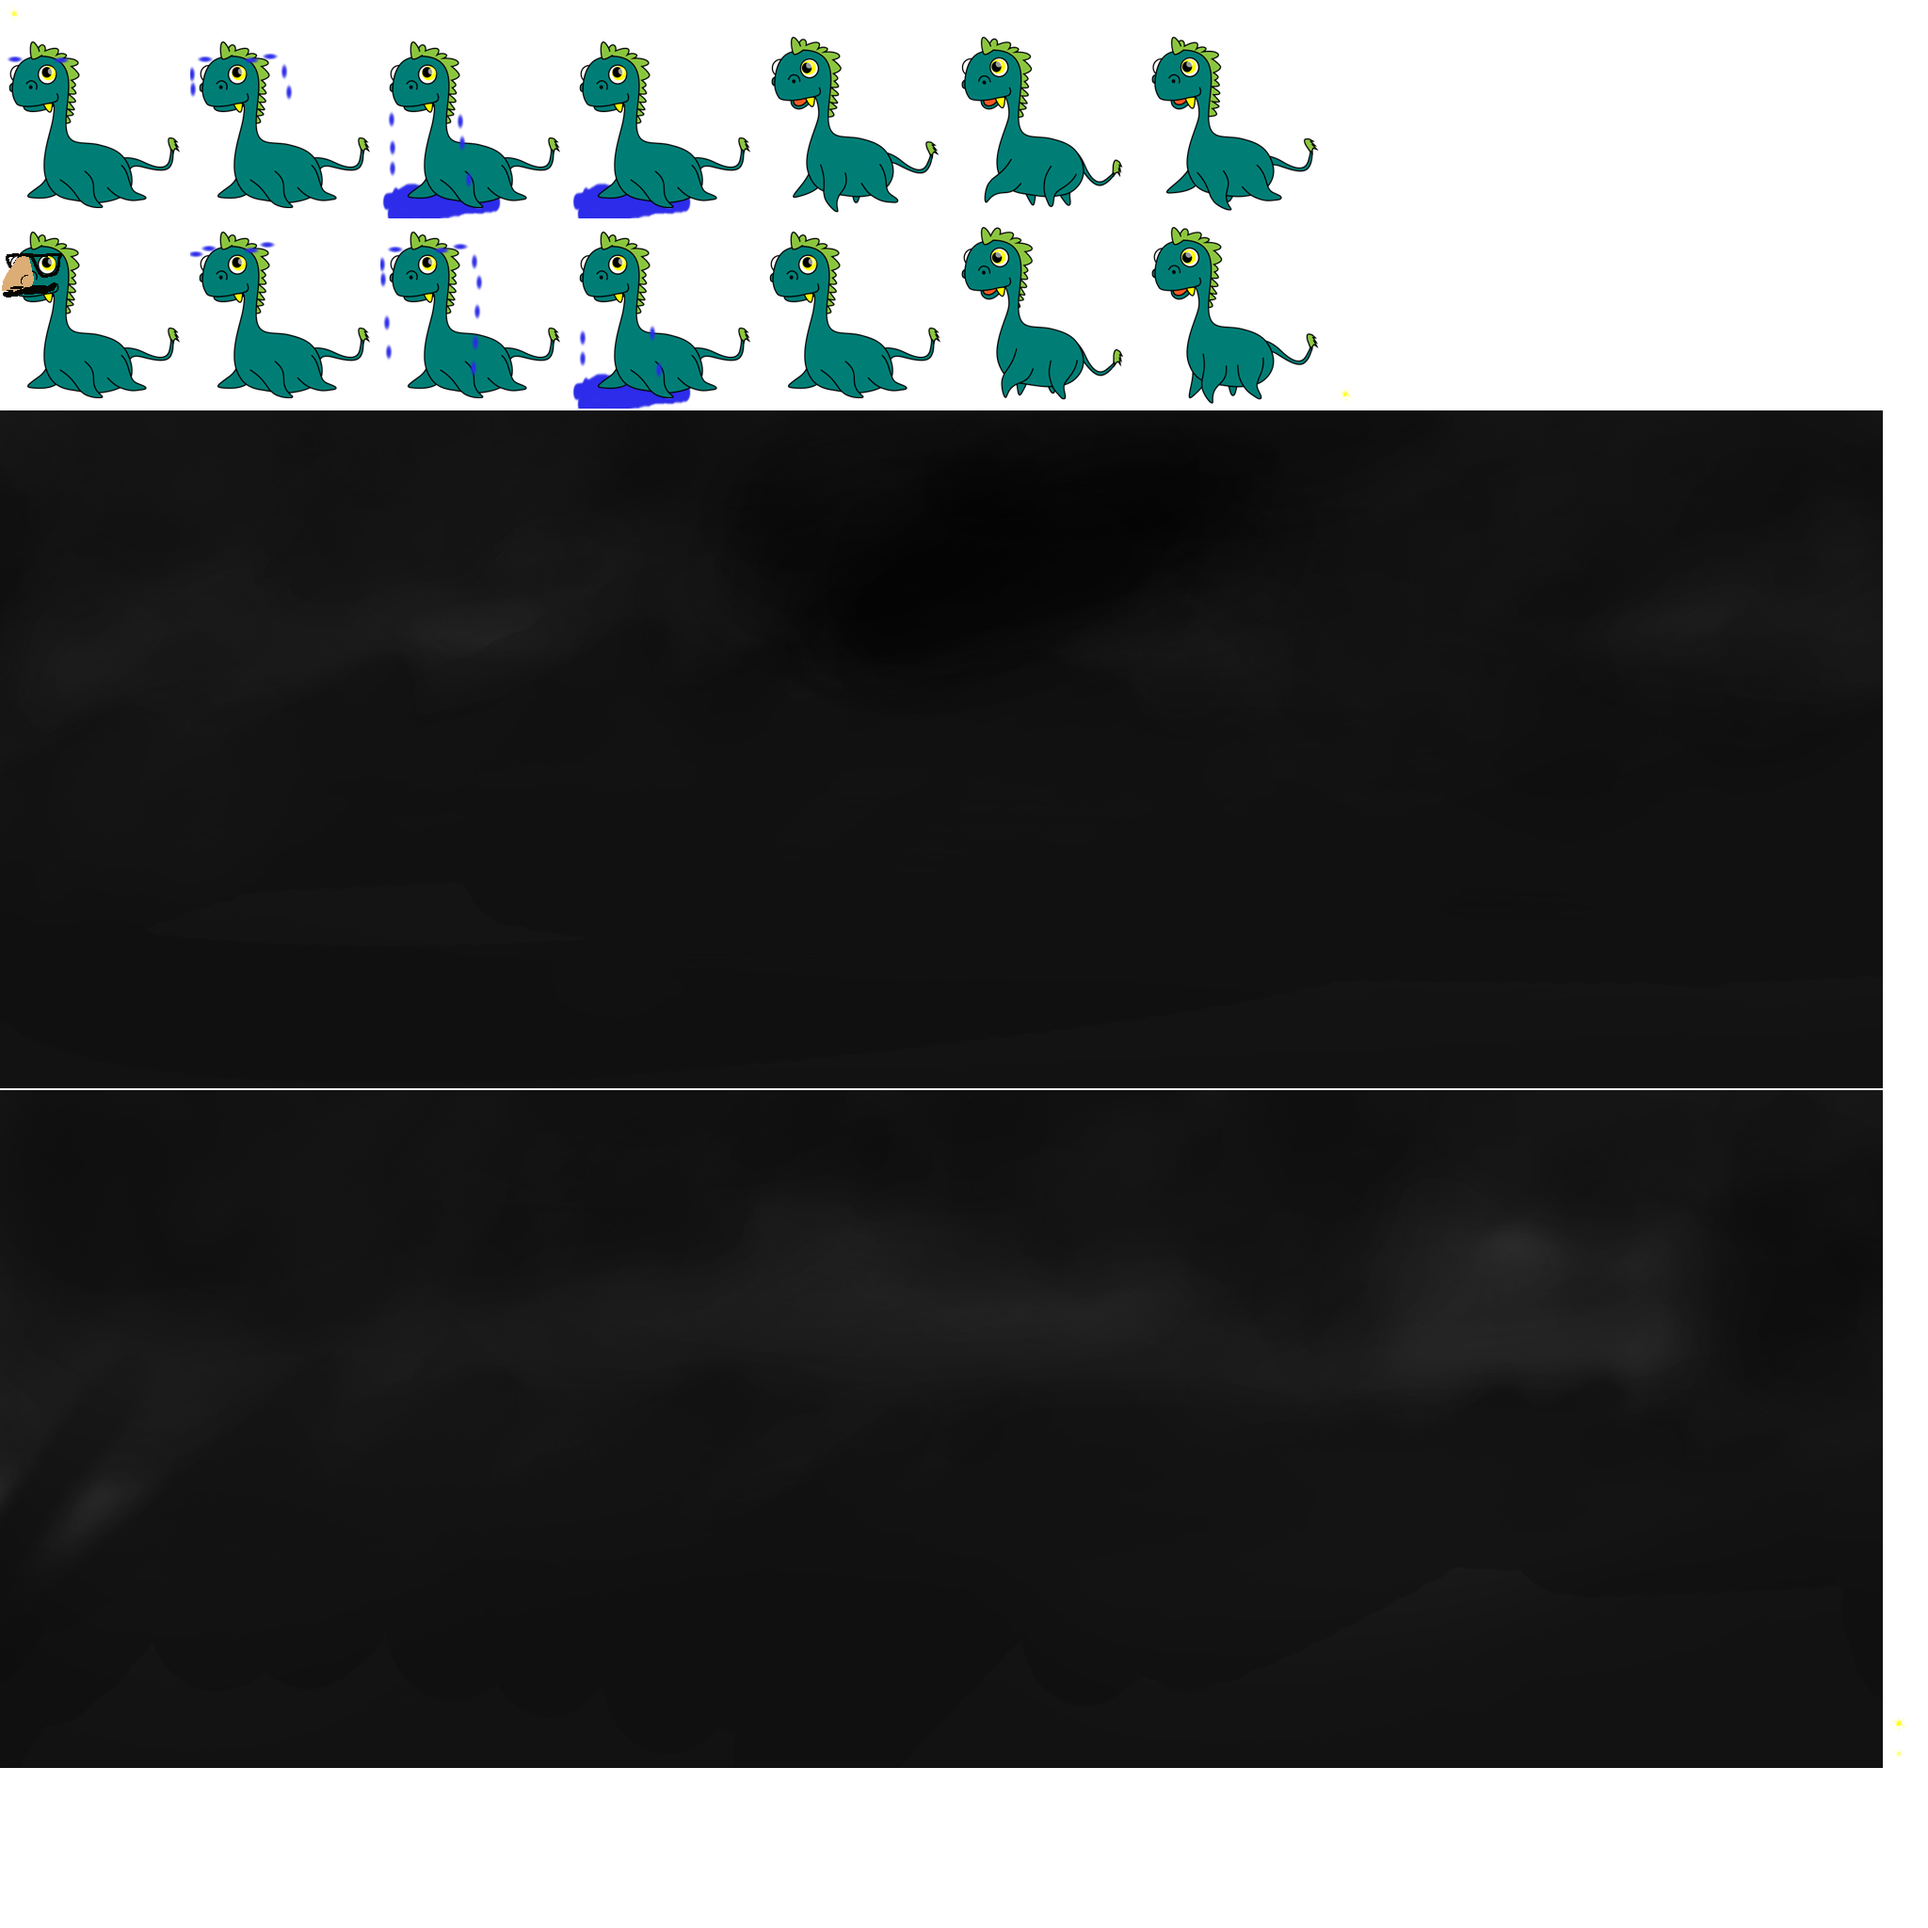
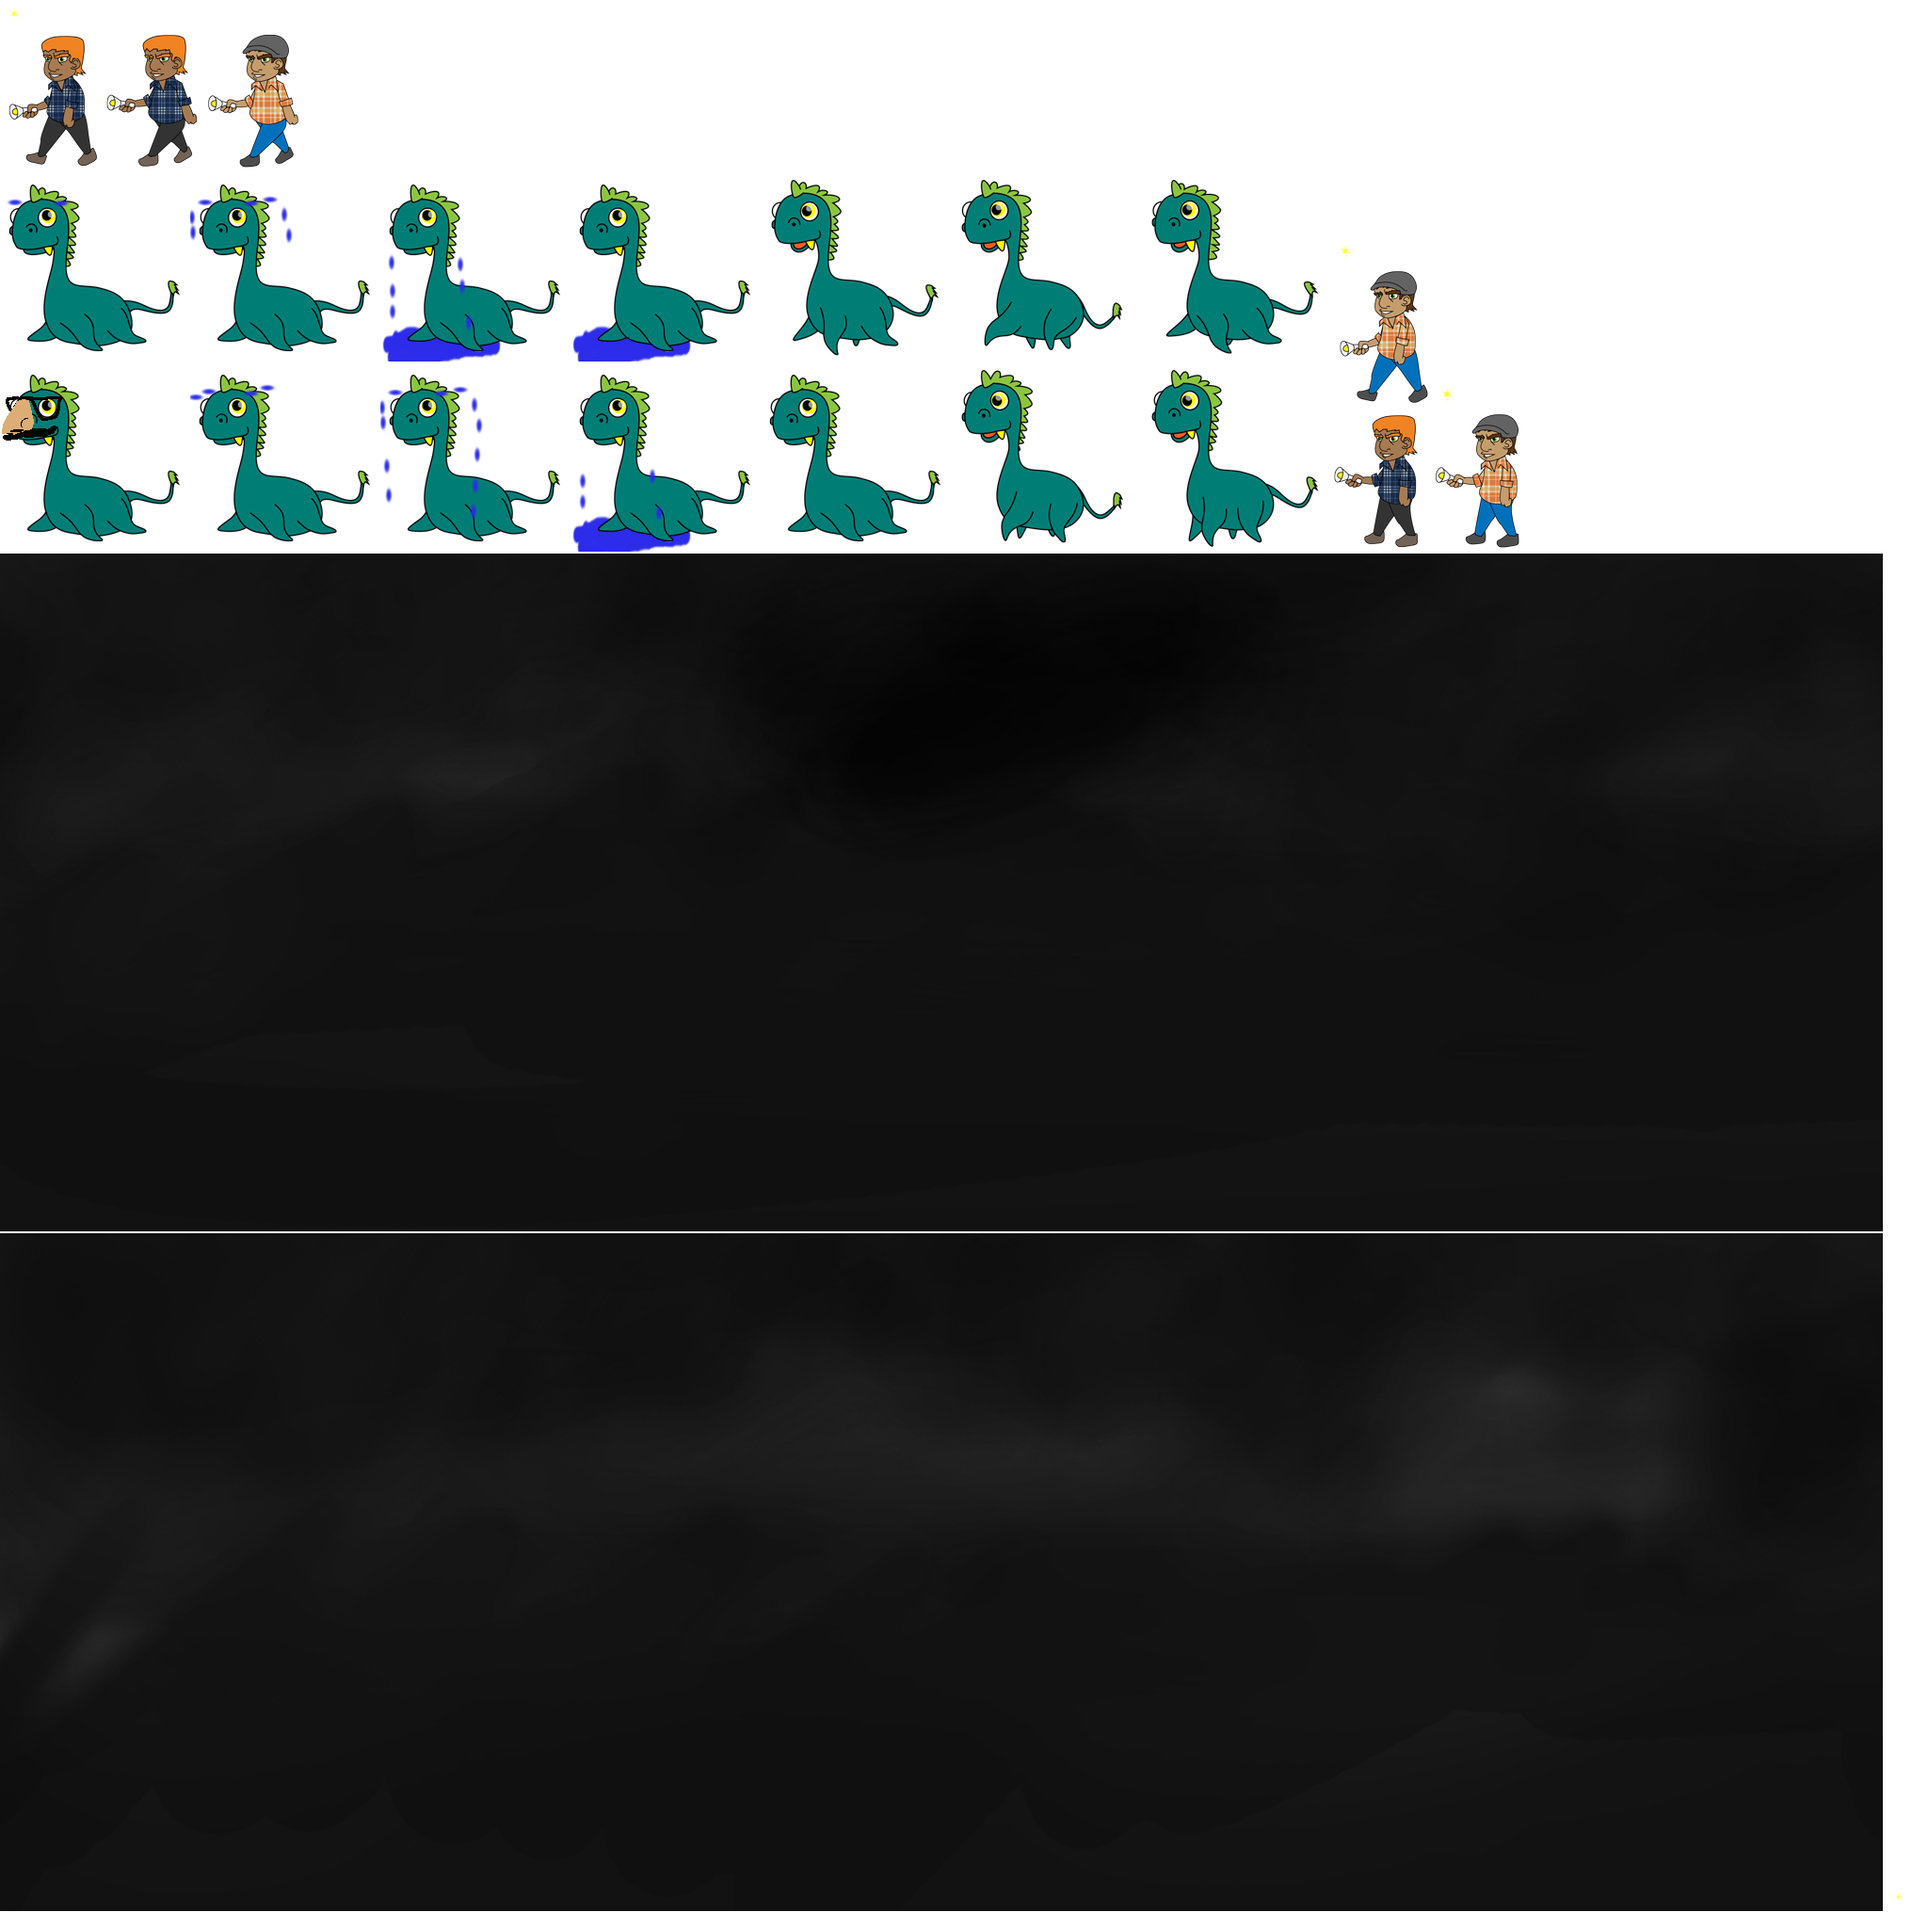
Patrols are real people now

Changed region(s): [[0.0, 0.0, 1.0, 0.3125], [0.0, 0.9062, 1.0, 1.0]]

diff --git a/core/src/com/pineapplepiranha/games/scene2d/stage/StealthNessieStage.java b/core/src/com/pineapplepiranha/games/scene2d/stage/StealthNessieStage.java
@@ -217,6 +217,21 @@ public class StealthNessieStage extends BaseStage {
         bushPositions.add(new Vector2(4378, 720-500));
         bushPositions.add(new Vector2(4570, 720-510));
 
+        bushPositions.add(new Vector2(4575, 720-512));
+        bushPositions.add(new Vector2(5356, 720-638));
+        bushPositions.add(new Vector2(7682, 720-541));
+        bushPositions.add(new Vector2(7816, 720-585));
+        bushPositions.add(new Vector2(6378, 720-500));
+        bushPositions.add(new Vector2(6570, 720-510));
+
+        bushPositions.add(new Vector2(8575, 720-512));
+        bushPositions.add(new Vector2(9356, 720-535));
+        bushPositions.add(new Vector2(11682, 720-541));
+        bushPositions.add(new Vector2(11816, 720-585));
+        bushPositions.add(new Vector2(9378, 720-710));
+        bushPositions.add(new Vector2(9570, 720-590));
+
+
         Array<Vector2> pineTreePositions = new Array<Vector2>();
         pineTreePositions.add(new Vector2(1260, 720-504));
         pineTreePositions.add(new Vector2(1530, 720-630));
@@ -264,7 +279,7 @@ public class StealthNessieStage extends BaseStage {
         float width = 129f;
         float height = 121f;
         for(Vector2 bv:bushPositions){
-            Cover c = new Cover(bv.x, bv.y, width, height, bushRegion, 0);//(int)Math.floor(x/DEPTH_HEIGHT));
+            Cover c = new Cover(bv.x, bv.y, width, height, bushRegion, 0);
             availableCover.add(c);
             addActor(c);
         }
@@ -273,7 +288,7 @@ public class StealthNessieStage extends BaseStage {
         width = 161f;
         height = 279f;
         for(Vector2 ptv:pineTreePositions){
-            Cover c = new Cover(ptv.x, ptv.y, width, height, ptRegion, 0);//(int)Math.floor(x/DEPTH_HEIGHT));
+            Cover c = new Cover(ptv.x, ptv.y, width, height, ptRegion, 0);
             availableCover.add(c);
             addActor(c);
         }
@@ -282,7 +297,7 @@ public class StealthNessieStage extends BaseStage {
         width = 150f;
         height = 254f;
         for(Vector2 tv:treePositions){
-            Cover c = new Cover(tv.x, tv.y, width, height, tRegion, 0);//(int)Math.floor(x/DEPTH_HEIGHT));
+            Cover c = new Cover(tv.x, tv.y, width, height, tRegion, 0);
             availableCover.add(c);
             addActor(c);
         }
@@ -300,6 +315,11 @@ public class StealthNessieStage extends BaseStage {
         patrolVals.add(new Vector3(5012, 720-500, 750));
         patrolVals.add(new Vector3(5620, 720-660, 1500));
         patrolVals.add(new Vector3(6482, 720-578, 500));
+        patrolVals.add(new Vector3(7012, 720-500, 750));
+        patrolVals.add(new Vector3(7620, 720-660, 1500));
+        patrolVals.add(new Vector3(8482, 720-578, 300));
+        patrolVals.add(new Vector3(9500, 720-715, 800));
+        patrolVals.add(new Vector3(10000, 720-360, 200));
         patrolVals.add(new Vector3(11000, 720-502, 500));
         patrolVals.add(new Vector3(11000, 720-602, 500));
         patrolVals.add(new Vector3(11000, 720-702, 500));
@@ -308,7 +328,8 @@ public class StealthNessieStage extends BaseStage {
         float width = 50f;
         float height = 100f;
         for(Vector3 pv:patrolVals){
-            Animation animation = new Animation(1f/5f, atlas.findRegions("nessie/Walk"));
+            String animationName = pv.z > 500 ? "patrol/Patrol" : "patrol/PatrolA";
+            Animation animation = new Animation(1f/3f, atlas.findRegions(animationName));
             TextureRegion flashlightTexture = new TextureRegion(flTexture);
             Patroler p = new Patroler(pv.x, pv.y, width, height, animation, 0, pv.z);
             p.setFlashlightTextureRegion(flashlightTexture);
